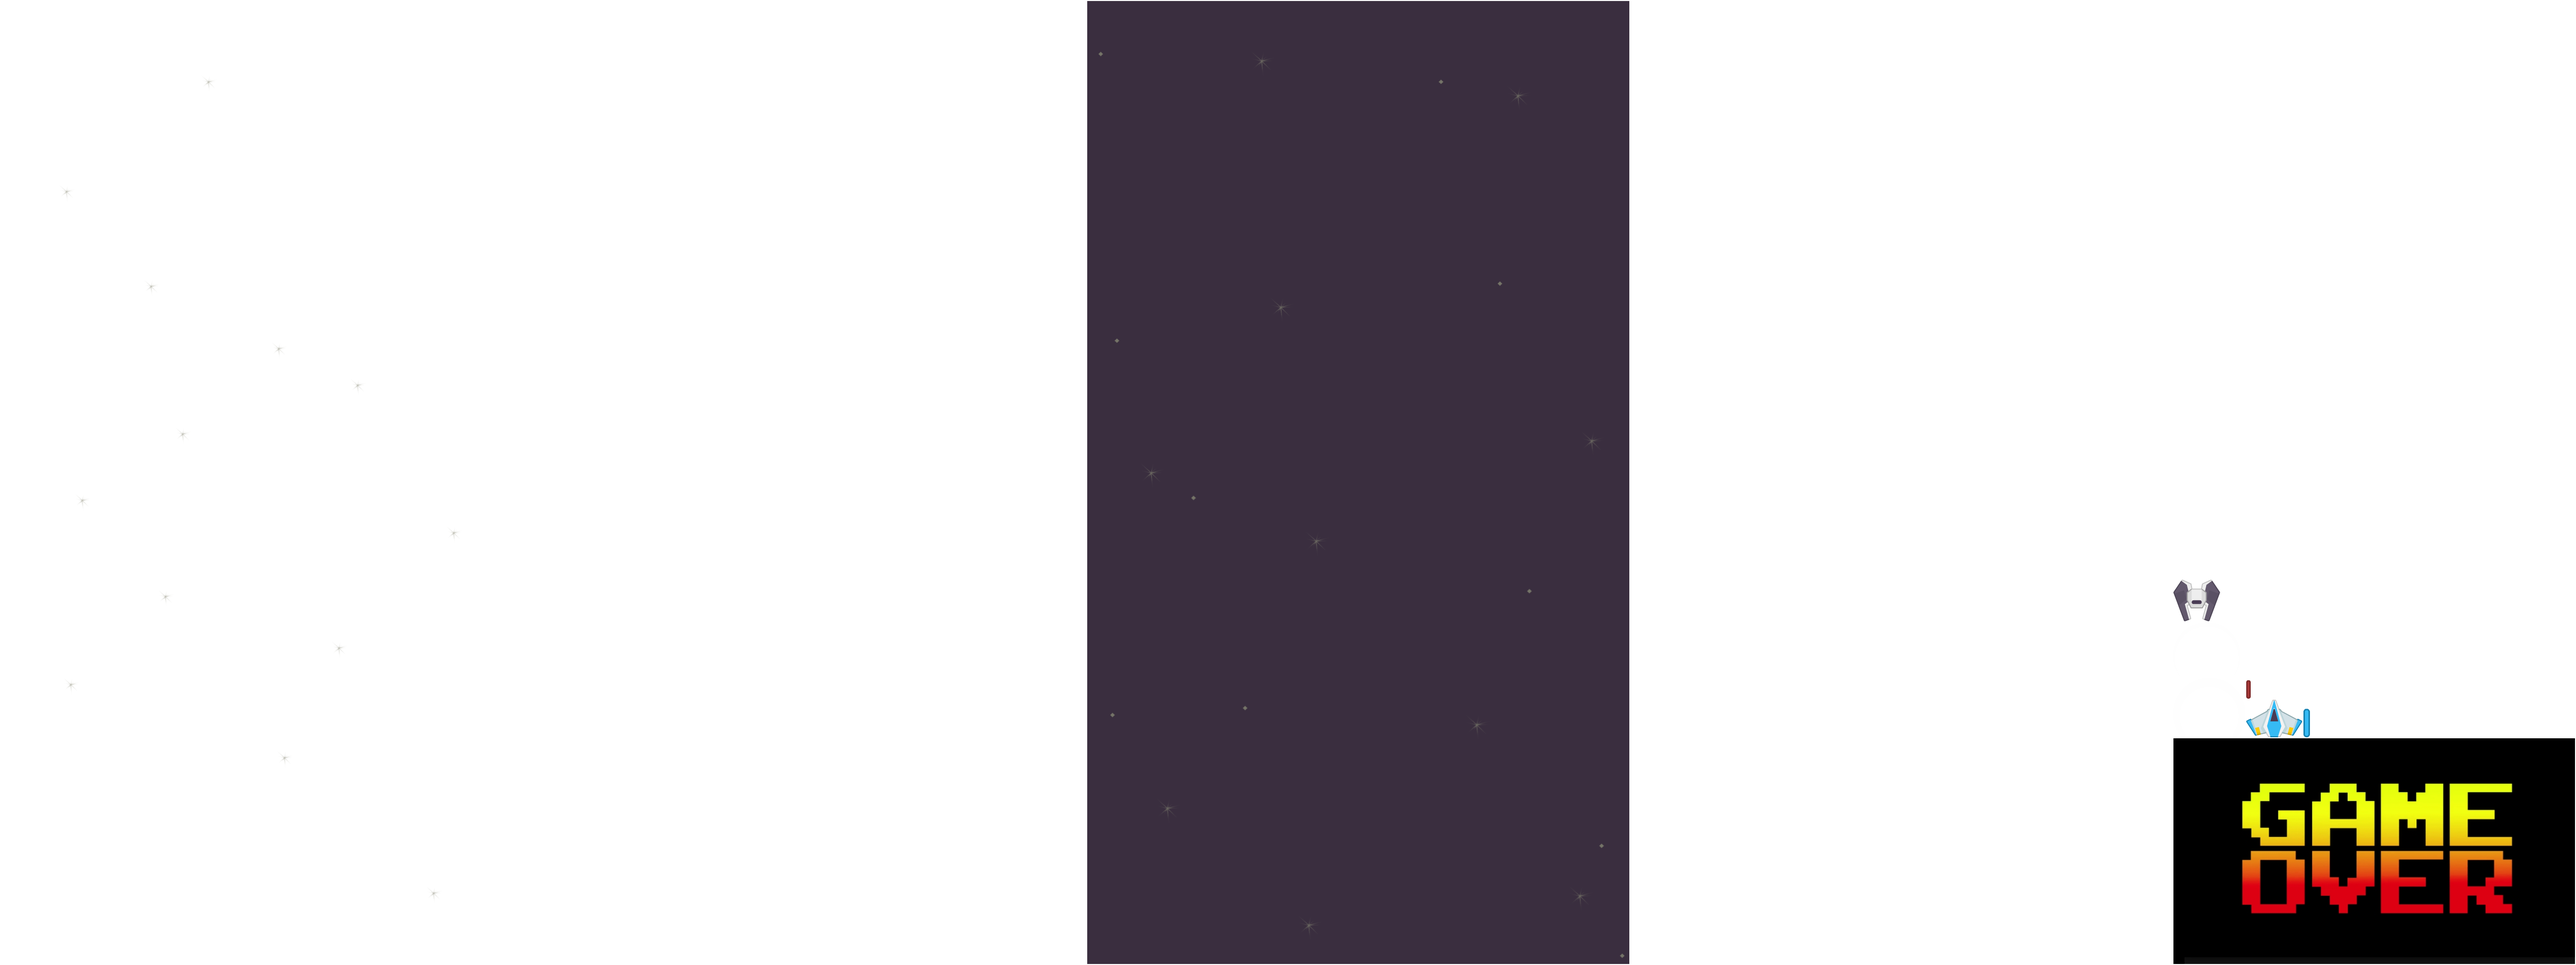
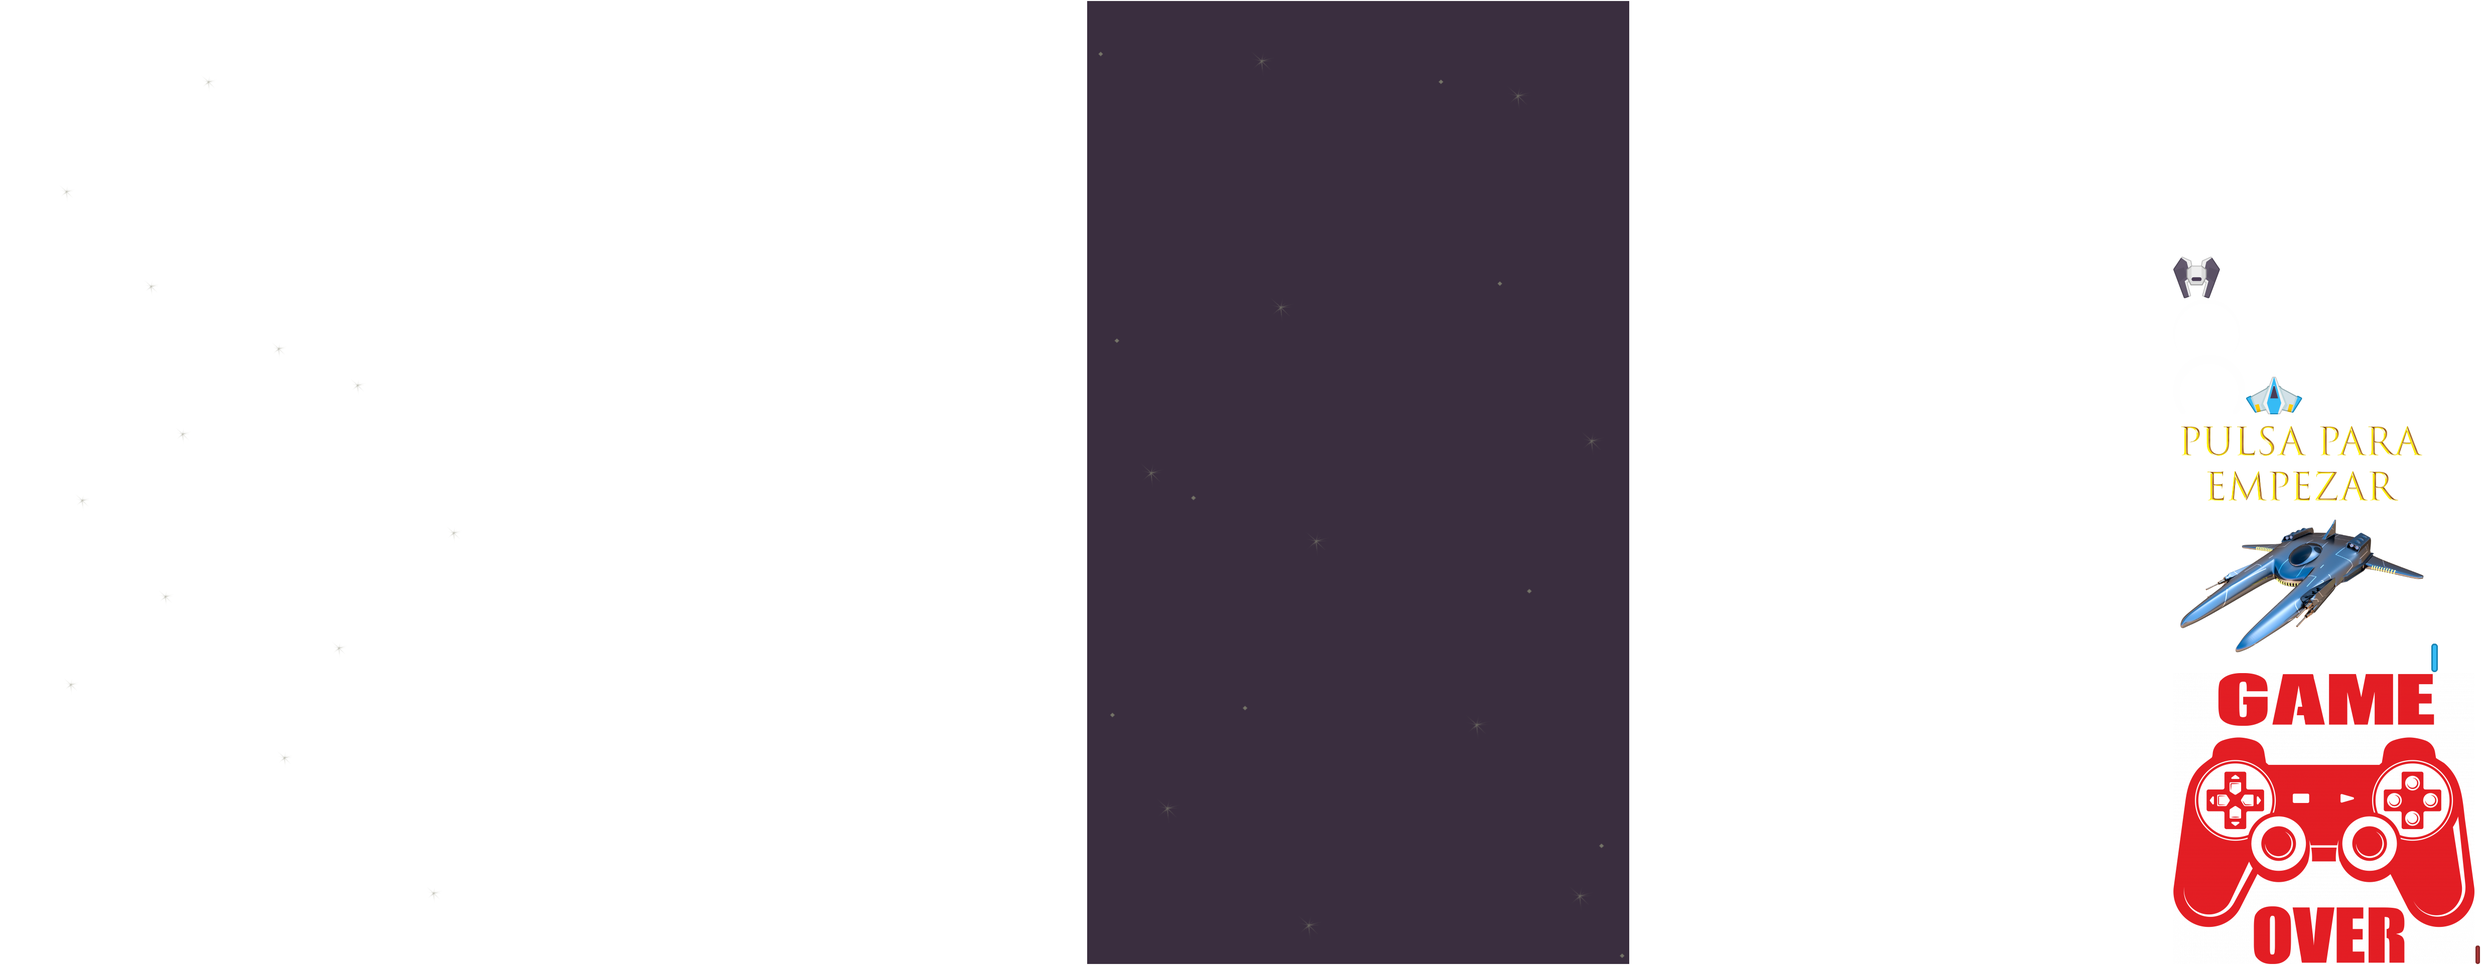
juego finalizado

diff --git a/core/src/screens/InitialScreen.java b/core/src/screens/InitialScreen.java
@@ -13,29 +13,28 @@ import com.badlogic.gdx.utils.viewport.StretchViewport;
 import com.badlogic.gdx.utils.viewport.Viewport;
 
 
-public class GameOverScreen extends BaseScreen {
+public class InitialScreen extends BaseScreen {
   private final Camera camera;
   private Viewport viewport;
   private Stage stage;
-  private Image gameover;
+  private Image initial;
   private World world;
 
 
-  public GameOverScreen (Main main) {
+  public InitialScreen(Main main) {
     super(main);
       world = new World(new Vector2(0, 0), false);
       camera = new OrthographicCamera();
       viewport = new StretchViewport(72,128,camera);
 
       stage = new Stage(new FitViewport(640, 360));
-
   }
 
-  public void addGameOver() {
-    Image gameOver = new Image(mainGame.assetManager.getGameOver());
-    gameOver.setSize(640, 360);
-    gameOver.setPosition(0, 0);
-    stage.addActor(gameOver);
+  public void addInitialScreen() {
+    Image initialGame = new Image(mainGame.assetManager.getInitial());
+    initialGame.setSize(640, 360);
+    initialGame.setPosition(0, 0);
+    stage.addActor(initialGame);
   }
 
   @Override
@@ -45,7 +44,7 @@ public class GameOverScreen extends BaseScreen {
 
 
   public void show(){
-    addGameOver();
+    addInitialScreen();
   }
 
   public void render(float deltaTime) {

diff --git a/core/src/extra/AssetShip.java b/core/src/extra/AssetShip.java
@@ -9,6 +9,7 @@ import com.badlogic.gdx.graphics.g2d.TextureRegion;
 
 public class AssetShip {
     private String atlasGameover;
+    private String atlasInitial;
     private AssetManager assetManager;
     private TextureAtlas textureAtlas;
 
@@ -18,22 +19,28 @@ public class AssetShip {
     public AssetShip() {
         this.assetManager = new AssetManager();
         atlasGameover = "gameOver";
+        atlasInitial = "PressStart";
         assetManager.load("images.atlas", TextureAtlas.class);
         assetManager.load("arcadeGameMusic.mp3",Music.class);
         assetManager.load("explosion.mp3",Sound.class);
         assetManager.finishLoading();
 
         textureAtlas = assetManager.get("images.atlas");
-
     }
+
     public Music getMusicBg() {
         return assetManager.get("arcadeGameMusic.mp3");
     }
+
     public Sound getSoundImpacto() {
         return assetManager.get("explosion.mp3");
     }
 
     public TextureRegion getGameOver(){
         return textureAtlas.findRegion(atlasGameover);
+    }
+
+    public TextureRegion getInitial(){
+        return textureAtlas.findRegion(atlasInitial);
     }
 }

diff --git a/core/src/screens/GameScreen.java b/core/src/screens/GameScreen.java
@@ -116,7 +116,7 @@ public class GameScreen extends BaseScreen {
         //Configuracion de objetos del juego
         playerShip = new PlayerShip(WORLD_WIDTH/2,WORLD_HEIGHT/4,
                 10,10,
-                48,1,
+                48,5,
                 0.8f,4,65,0.5f,
                 playerShipTextureRegion,playerShieldTextureRegion,playerLaserTextureRegion);
 
@@ -333,6 +333,7 @@ public class GameScreen extends BaseScreen {
                                     1.6f));
 
                     playerShip.lives --;
+                    playerShip.shield = 5;
                     explosionSound.play();
                     if(playerShip.lives < 0){
                         musicbg.stop();

diff --git a/core/src/screens/Main.java b/core/src/screens/Main.java
@@ -7,6 +7,7 @@ import extra.AssetShip;
 public class Main extends Game {
     public GameScreen gameScreen;
     public GameOverScreen gameOverScreen;
+    public InitialScreen initialScreen;
     //AssetMan sera la clase encargada de adminstrarnos los recuros necesarios
     public AssetShip assetManager;
     public static Random random = new Random();
@@ -16,6 +17,7 @@ public class Main extends Game {
         this.assetManager = new AssetShip();
         this.gameOverScreen = new GameOverScreen(this);
         this.gameScreen = new GameScreen(this);
-        setScreen(gameScreen);
+        this.initialScreen = new InitialScreen(this);
+        setScreen(initialScreen);
     }
 }
